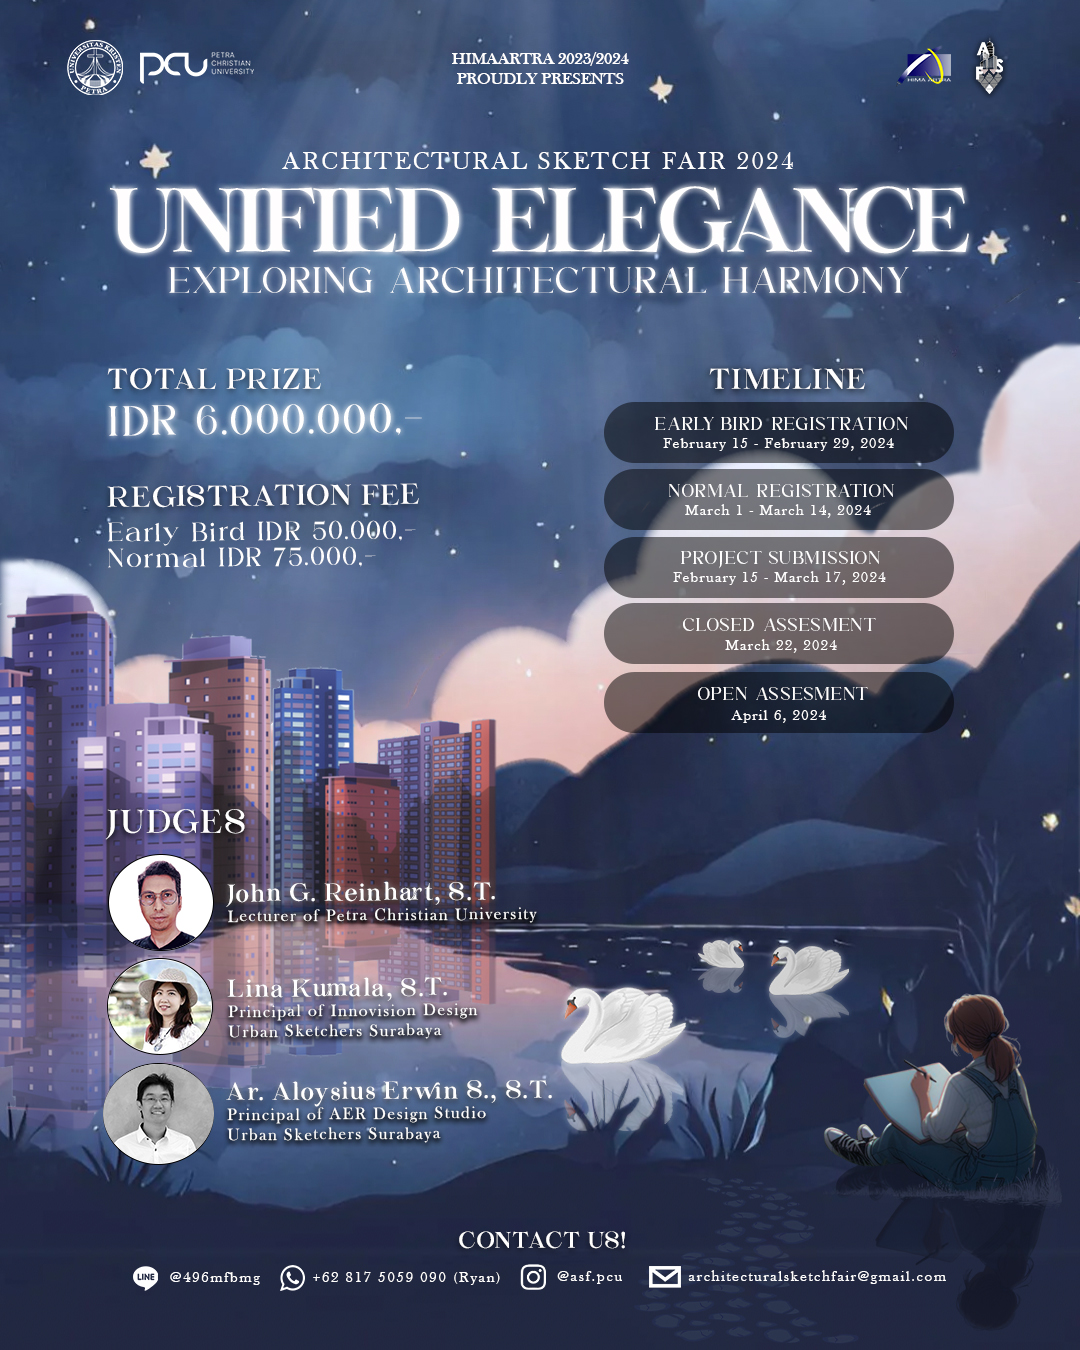
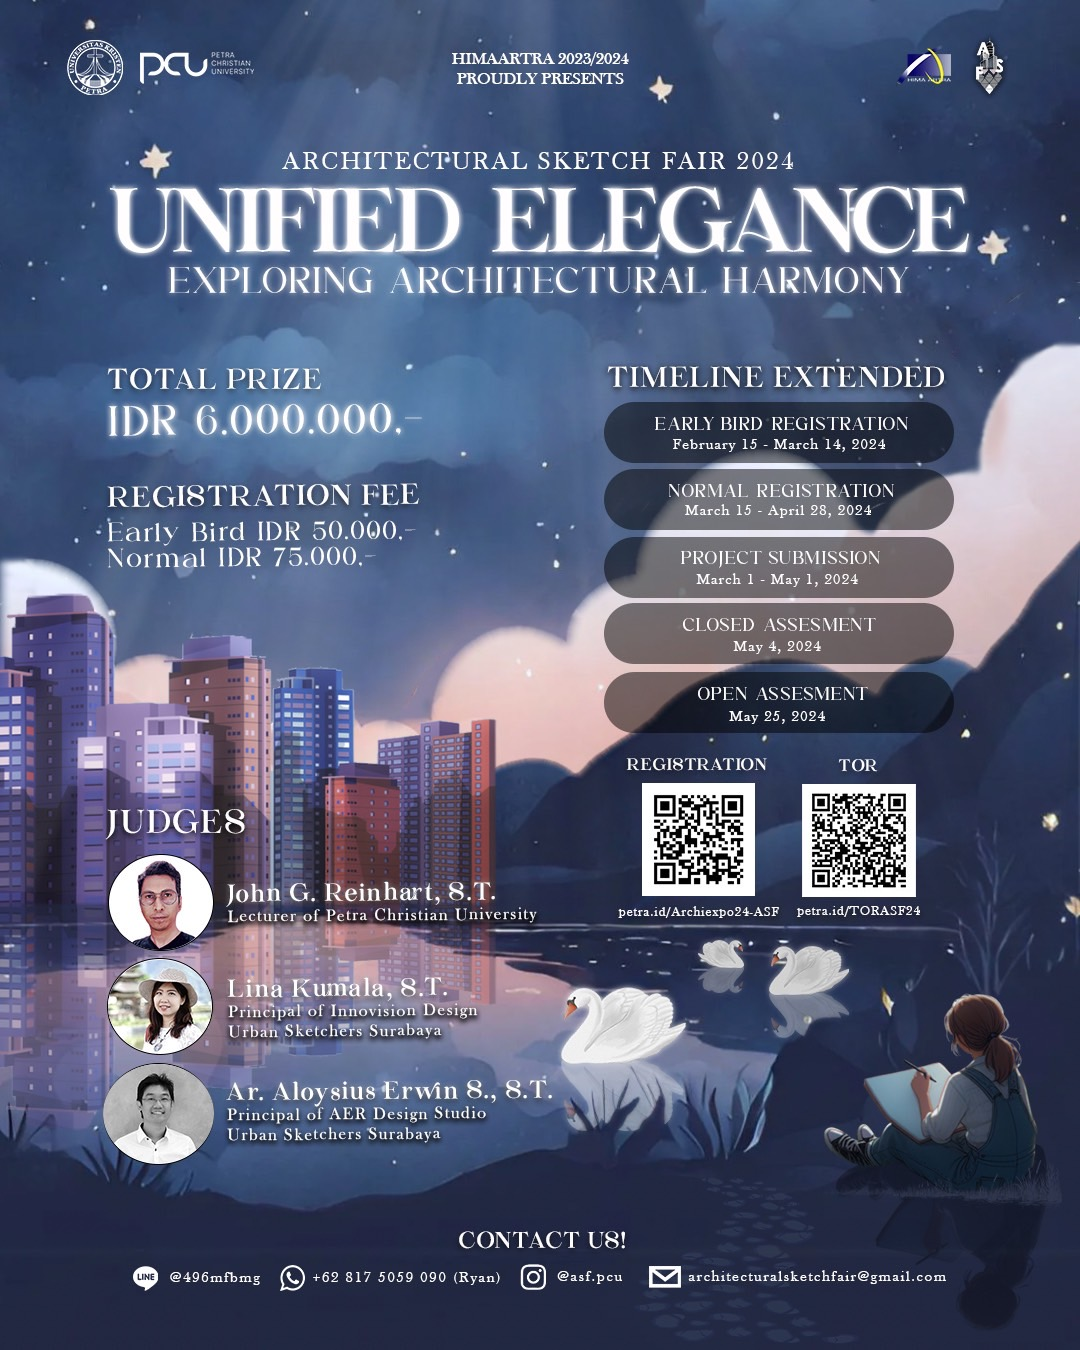
ganti tor dan poster gada, asf, archfest

diff --git a/asf.php b/asf.php
@@ -68,7 +68,7 @@
                 <ul class="dropdown-menu dropdown-menu-secondary">
                     <li><a class="dropdown-item" href="https://docs.google.com/forms/d/e/1FAIpQLSdnDDed3k0YRV4EbYlUCB2KZ52VpU2cQpQZpM56042MiyowjA/viewform" target="_blank">REGISTER NOW</a></li>
                     <li><a class="dropdown-item" href="#timeline" onclick="openCity('xASF', 5)">TIMELINE & CONTACT</a></li>
-                    <li><a class="dropdown-item" href="https://drive.google.com/file/d/1Vl6aBuP_PZUte0zDeXV_vgBCflbjKezl/view?usp=sharing" target="_blank">TERMS OF REFERENCE</a></li>
+                    <li><a class="dropdown-item" href="https://drive.google.com/file/d/1fEmbnuydcNx-TkRqeAntYEVhrIBpOQ_k/view" target="_blank">TERMS OF REFERENCE</a></li>
                     <li><a class="dropdown-item" href="https://docs.google.com/forms/d/e/1FAIpQLSdHv9KTnnQd3Xr3b6s8_sKpv7QtlOysfnGfUpdQezJKdLXVHg/viewform" target="_blank">SUBMISSION</a></li>
                 </ul>
             </div>

diff --git a/archifest.php b/archifest.php
@@ -45,7 +45,7 @@
                 <ul class="dropdown-menu dropdown-menu-secondary">
                     <li><a class="dropdown-item" href="https://docs.google.com/forms/d/e/1FAIpQLSdXwbU1vcR6lnQMpwmh15jNG_K3rVDbVpAebvV9z_Z5qrVukQ/viewform" target="_blank">REGISTER NOW</a></li>
                     <li><a class="dropdown-item" href="#timeline" onclick="openCity('xFEST', 3)">TIMELINE & CONTACT</a></li>
-                    <li><a class="dropdown-item" href="https://drive.google.com/file/d/1D0TgGXRNZmmpz_KNqDf1hQE_yGeQEY6q/view" target="_blank">TERM OF REFERENCE</a></li>
+                    <li><a class="dropdown-item" href="https://drive.google.com/file/d/1BcOXnYlaXQkz0oLOuNMSVWndJK-Cs1Os/view" target="_blank">TERM OF REFERENCE</a></li>
                 </ul>
             </div>
         </div>

diff --git a/gada.php b/gada.php
@@ -67,7 +67,7 @@
                 <ul class="dropdown-menu dropdown-menu-secondary">
                     <li><a class="dropdown-item" href="https://docs.google.com/forms/d/e/1FAIpQLSfpkRZ90fOdEBzTscv6r8Fc-55mUfE_-CA3EEe9ES4UrvH7YA/viewform">REGISTER NOW</a></li>
                     <li><a class="dropdown-item" href="#timeline" onclick="openCity('xGADA', 4)">TIMELINE & CONTACT</a></li>
-                    <li><a class="dropdown-item" href="https://drive.google.com/file/d/1DKqkCizj2ekczEDuI5lUSLbgti1AsAC6/view" target="_blank">TERMS OF REFERENCE</a></li>
+                    <li><a class="dropdown-item" href="https://drive.google.com/file/d/1sSu6BSKok7aVMJPCZHdzpQGu0DW0r_D7/view" target="_blank">TERMS OF REFERENCE</a></li>
                 </ul>
             </div>
         </div>
